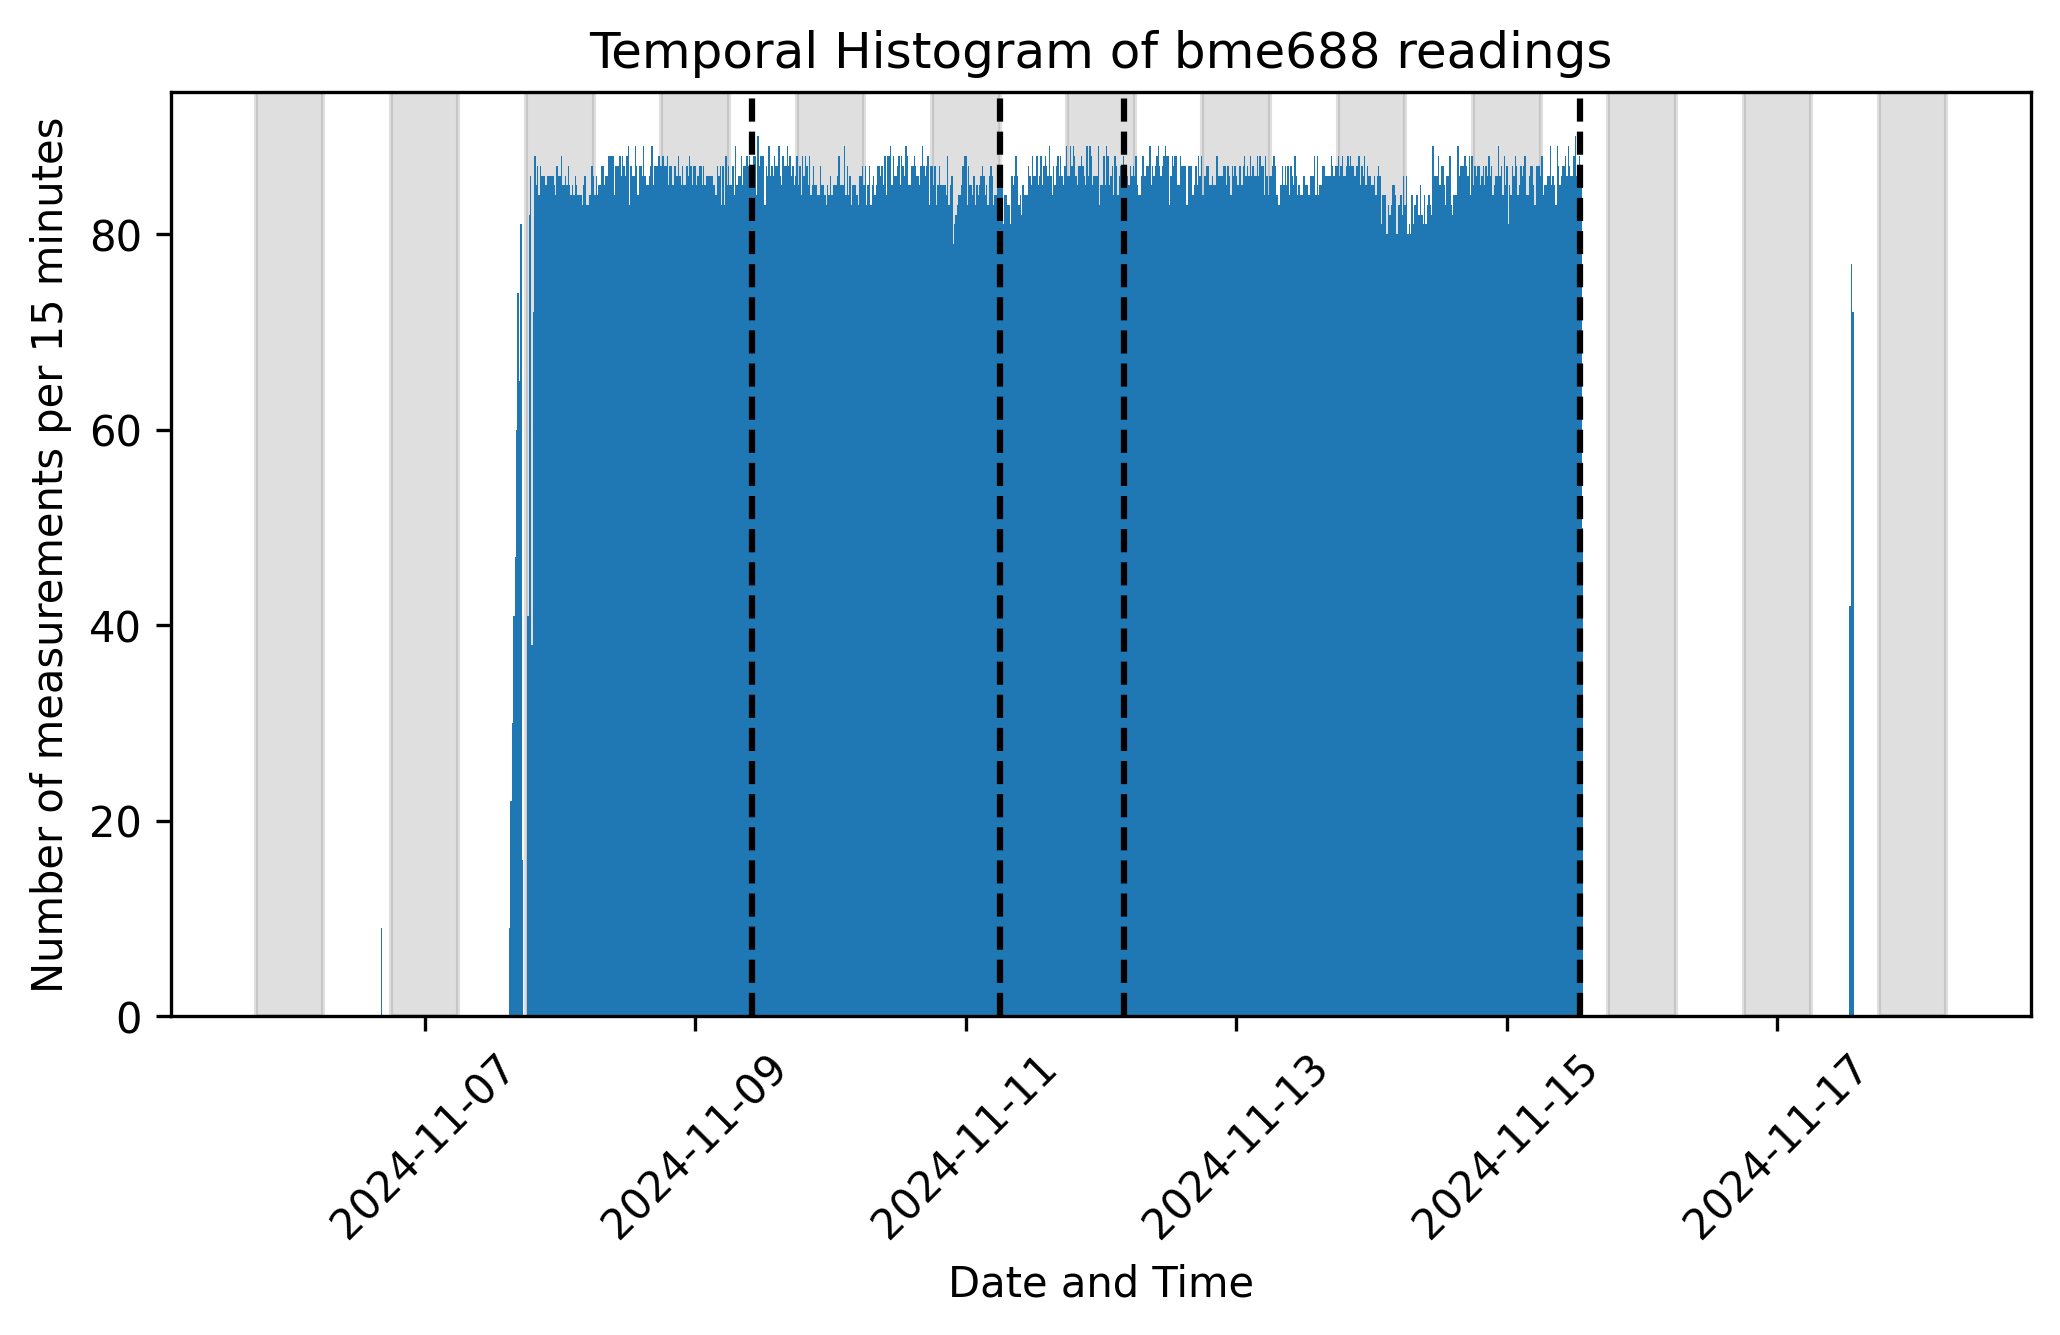
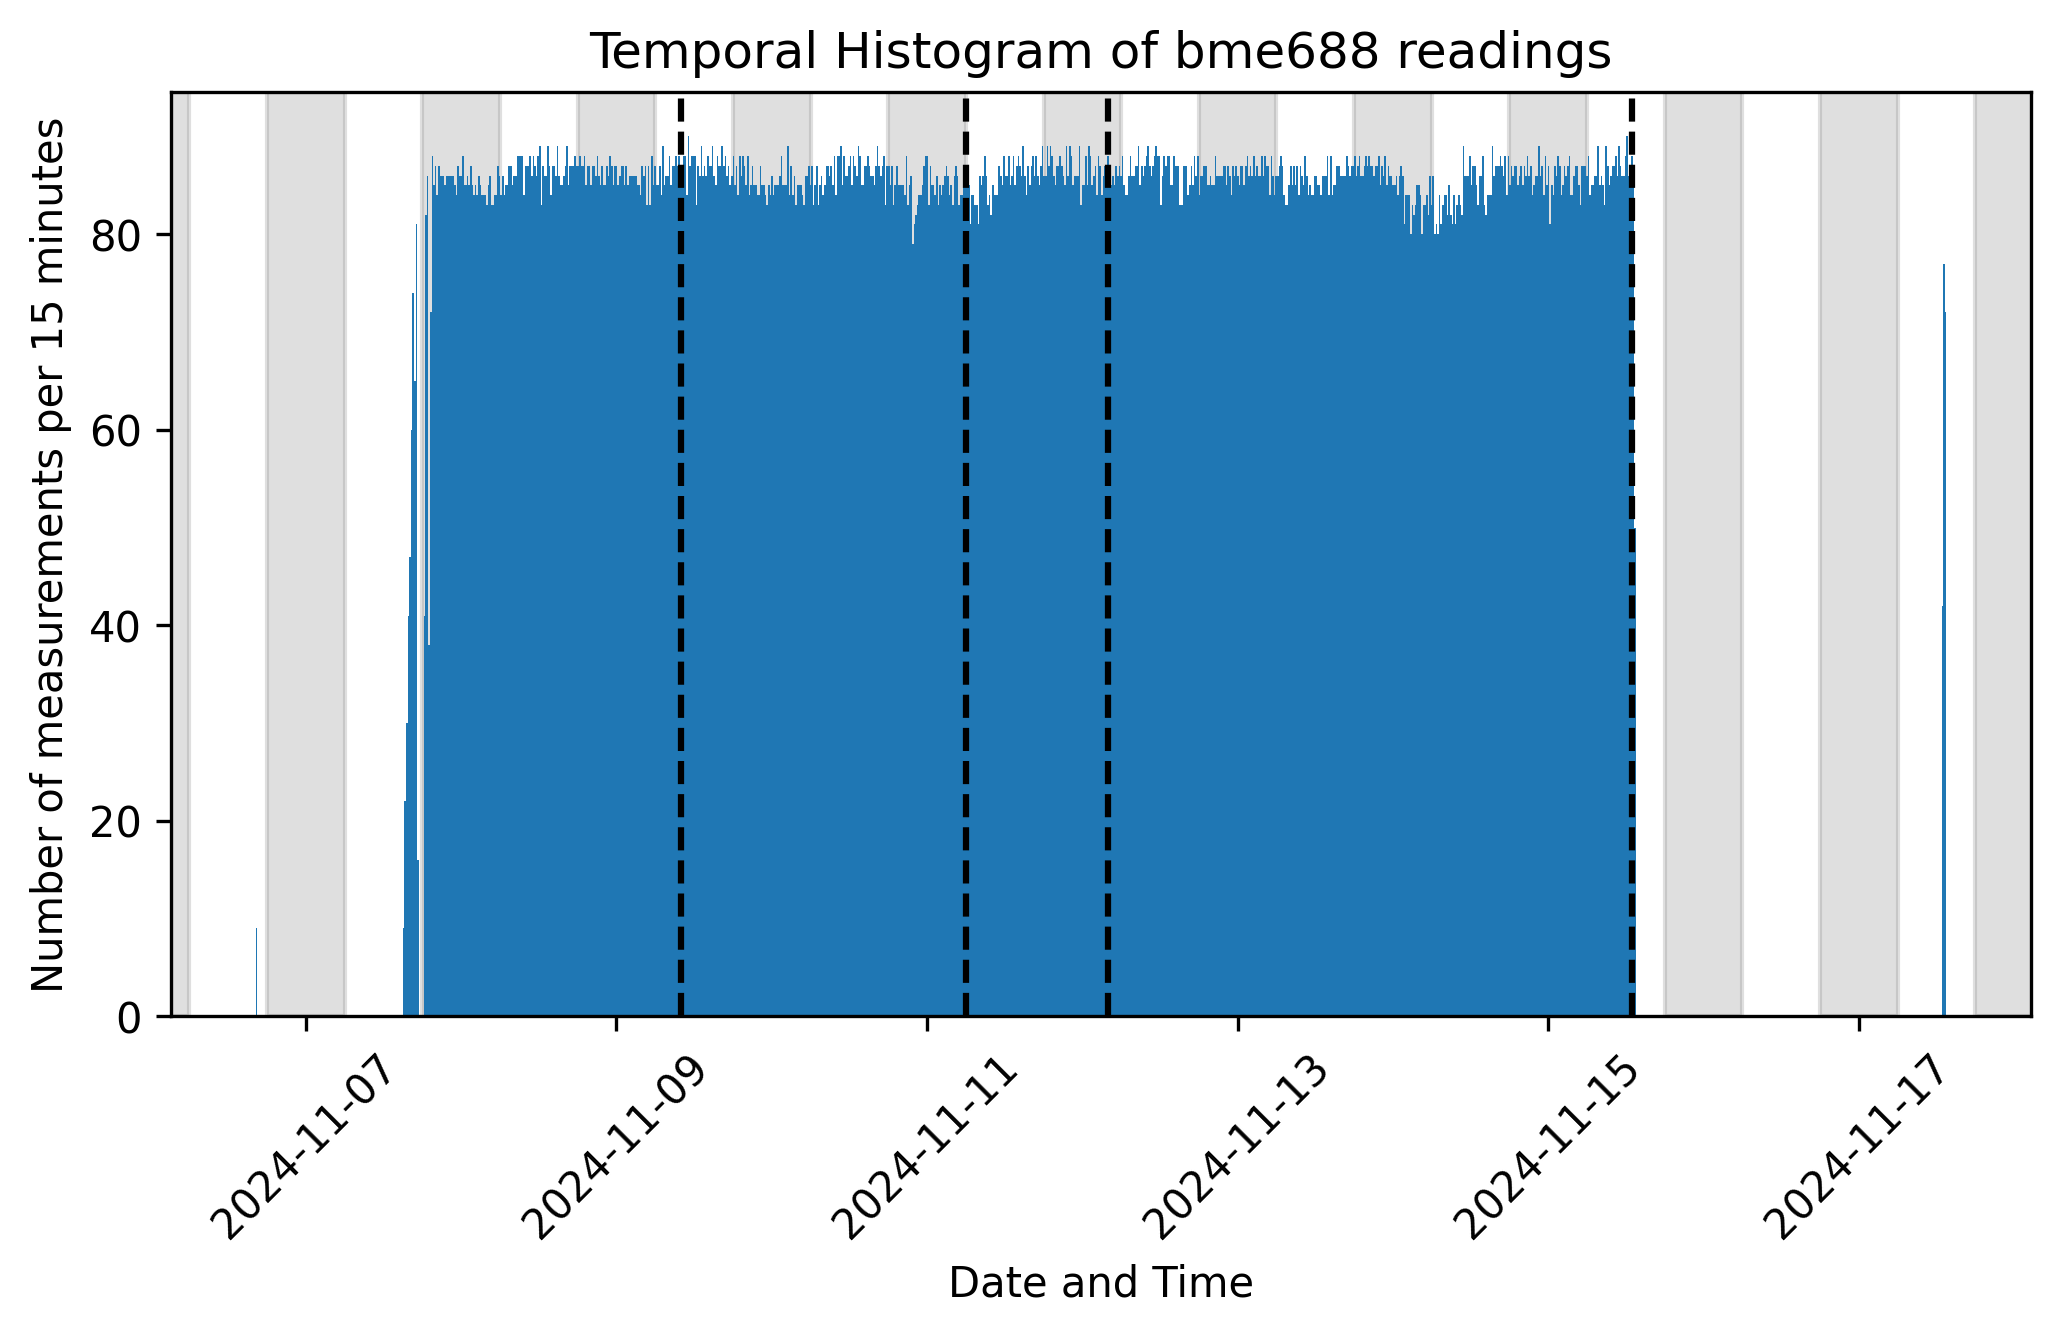
Updated base plots to new format

diff --git a/src/gen_visuals_script.py b/src/gen_visuals_script.py
@@ -53,6 +53,9 @@ INTERVAL_BOUNDS = {
 START_DATETIME = "2024-11-08 10:00:00"
 END_DATETIME = "2024-11-12 10:00:00"
 
+# START_DATETIME = ""
+# END_DATETIME = ""
+
 ########################################################
 # Events Configuration (should be in a yml file)
 ########################################################
